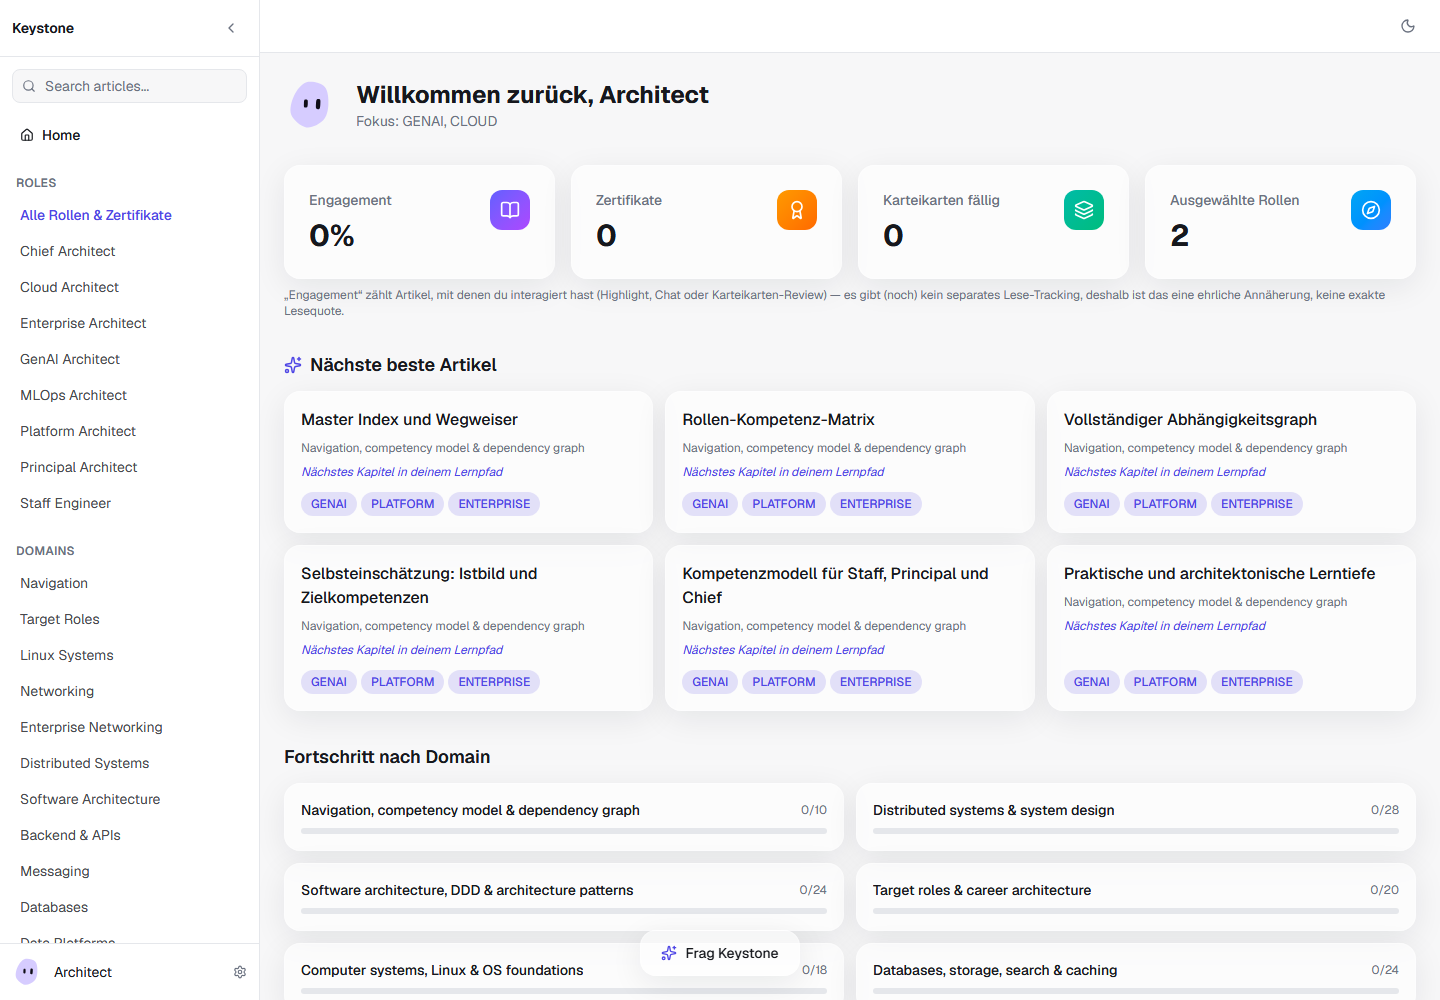
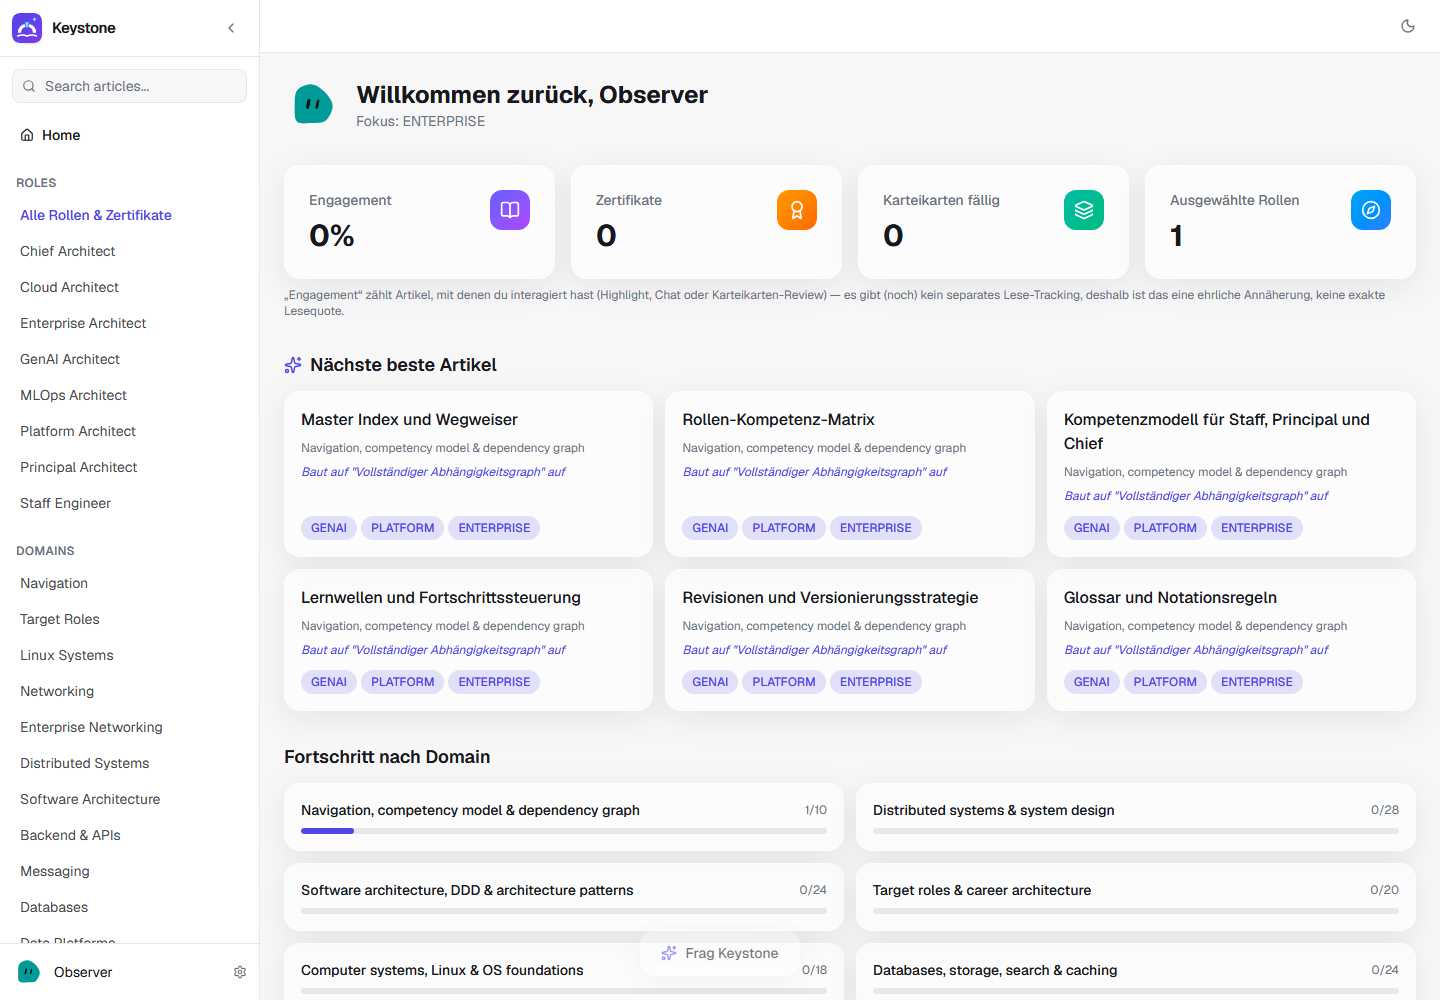
Move dev indicator to bottom-right and refresh README screenshot

diff --git a/next.config.ts b/next.config.ts
@@ -1,7 +1,10 @@
 import type { NextConfig } from "next";
 
 const nextConfig: NextConfig = {
-  /* config options here */
+  // Keep the dev-mode "N" badge away from the sidebar profile corner.
+  devIndicators: {
+    position: "bottom-right",
+  },
   experimental: {
     cpus: 1,
   },
